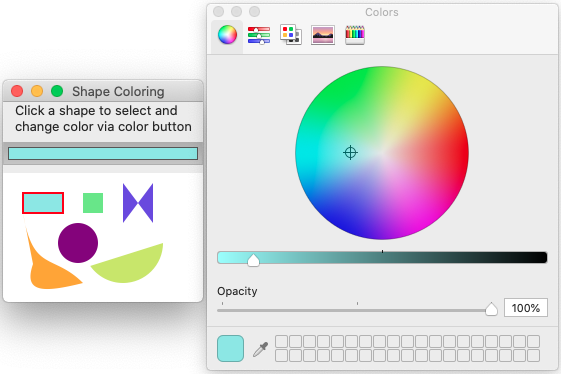
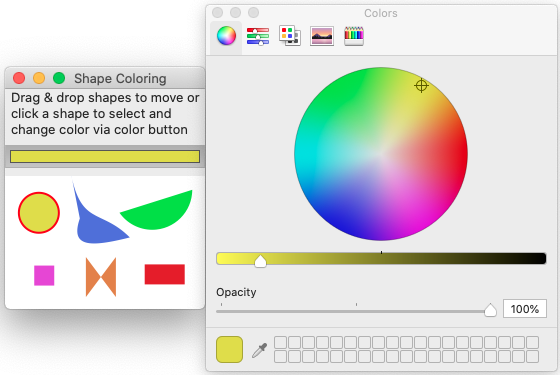
Basic shape drag & drop support with move_by and move (demoed in examples/shape_coloring.rb)

diff --git a/examples/shape_coloring.rb b/examples/shape_coloring.rb
@@ -10,11 +10,11 @@ class ShapeColoring
   }
   
   body {
-    window('Shape Coloring', 200, 200) {
+    window('Shape Coloring', 200, 220) {
       margined false
       
       grid {
-        label("Click a shape to select and\nchange color via color button") {
+        label("Drag & drop shapes to move or\nclick a shape to select and\nchange color via color button") {
           left 0
           top 0
           hexpand true
@@ -68,6 +68,14 @@ class ShapeColoring
                      40, 120, 20, 120, 30, 91) {
             fill :pink
           }
+          
+          on_mouse_dragged do |area_mouse_event|
+            mouse_dragged(area_mouse_event)
+          end
+          
+          on_mouse_dropped do |area_mouse_event|
+            mouse_dropped(area_mouse_event)
+          end
         }
       }
     }
@@ -76,17 +84,53 @@ class ShapeColoring
   def colorable(shape_symbol, *args, &content)
     send(shape_symbol, *args) do |shape|
       on_mouse_up do |area_mouse_event|
-        old_stroke = Glimmer::LibUI.interpret_color(shape.stroke).slice(:r, :g, :b)
-        @shapes.each {|sh| sh.stroke = nil}
-        @selected_shape = nil
-        unless old_stroke == COLOR_SELECTION
-          shape.stroke = COLOR_SELECTION.merge(thickness: 2)
-          @selected_shape = shape
+        unless @dragged_shape
+          old_stroke = Glimmer::LibUI.interpret_color(shape.stroke).slice(:r, :g, :b)
+          @shapes.each {|sh| sh.stroke = nil}
+          @selected_shape = nil
+          unless old_stroke == COLOR_SELECTION
+            shape.stroke = COLOR_SELECTION.merge(thickness: 2)
+            @selected_shape = shape
+          end
         end
+      end
+      
+      on_mouse_drag_started do |area_mouse_event|
+        mouse_drag_started(shape, area_mouse_event)
+      end
+      
+      on_mouse_dragged do |area_mouse_event|
+        mouse_dragged(area_mouse_event)
+      end
+      
+      on_mouse_dropped do |area_mouse_event|
+        mouse_dropped(area_mouse_event)
       end
       
       content.call(shape)
     end
+  end
+  
+  def mouse_drag_started(dragged_shape, area_mouse_event)
+    @dragged_shape = dragged_shape
+    @dragged_shape_x = area_mouse_event[:x]
+    @dragged_shape_y = area_mouse_event[:y]
+  end
+  
+  def mouse_dragged(area_mouse_event)
+    if @dragged_shape && @dragged_shape_x && @dragged_shape_y
+      x_delta = area_mouse_event[:x] - @dragged_shape_x
+      y_delta = area_mouse_event[:y] - @dragged_shape_y
+      @dragged_shape.move_by(x_delta, y_delta)
+      @dragged_shape_x = area_mouse_event[:x]
+      @dragged_shape_y = area_mouse_event[:y]
+    end
+  end
+  
+  def mouse_dropped(area_mouse_event)
+    @dragged_shape = nil
+    @dragged_shape_x = nil
+    @dragged_shape_y = nil
   end
 end
 

diff --git a/lib/glimmer/libui/perfect_shaped.rb b/lib/glimmer/libui/perfect_shaped.rb
@@ -1,7 +1,14 @@
+require 'forwardable'
+  
 module Glimmer
   module LibUI
     # GUI View objects that can be represented by PerfectShape objects
     module PerfectShaped
+      extend Forwardable
+      
+      def_delegators :perfect_shape,
+                     :min_x, :min_y, :max_x, :max_y, :center_point, :center_x, :center_y
+      
       # Returns if shape contains point on the inside when outline is false (default)
       # or if point is on the outline when outline is true
       # distance_tolerance is used when outline is true to enable a fuzz factor in
@@ -32,6 +39,18 @@ module Glimmer
           perfect_shape_bounding_box.width,
           perfect_shape_bounding_box.height,
         ]
+      end
+      
+      # moves by x delta and y delta. Classes must implement
+      def move_by(x_delta, y_delta)
+        # No Op
+      end
+      alias translate move_by
+      
+      def move(x, y)
+        x_delta = x - perfect_shape.min_x
+        y_delta = y - perfect_shape.min_y
+        move_by(x_delta, y_delta)
       end
       
       # Returns PerfectShape object matching this shape to enable

diff --git a/lib/glimmer/libui/shape/bezier.rb b/lib/glimmer/libui/shape/bezier.rb
@@ -50,6 +50,17 @@ module Glimmer
           x && y
         end
         
+        def move_by(x_delta, y_delta)
+          self.x += x_delta
+          self.y += y_delta
+          self.c1_x += x_delta
+          self.c1_y += y_delta
+          self.c2_x += x_delta
+          self.c2_y += y_delta
+          self.end_x += x_delta
+          self.end_y += y_delta
+        end
+        
         def perfect_shape
           perfect_shape_dependencies = [x, y, c1_x, c1_y, c2_x, c2_y, end_x, end_y]
           if perfect_shape_dependencies != @perfect_shape_dependencies

diff --git a/lib/glimmer/libui/shape/figure.rb b/lib/glimmer/libui/shape/figure.rb
@@ -51,6 +51,12 @@ module Glimmer
         alias set_closed closed
         alias closed? closed
         
+        def move_by(x_delta, y_delta)
+          self.x += x_delta
+          self.y += y_delta
+          children.each {|child| child.move_by(x_delta, y_delta)}
+        end
+                
         def perfect_shape
           perfect_shape_dependencies = [x, y, closed, parent.draw_fill_mode, children]
           if perfect_shape_dependencies != @perfect_shape_dependencies

diff --git a/lib/glimmer/libui/shape/polybezier.rb b/lib/glimmer/libui/shape/polybezier.rb
@@ -40,6 +40,10 @@ module Glimmer
           super
         end
         
+        def move_by(x_delta, y_delta)
+          self.point_array = point_array.each_with_index.map {|coordinate, i| i.even? ? coordinate + x_delta : coordinate + y_delta}
+        end
+        
         def perfect_shape
           perfect_shape_dependencies = PerfectShape::MultiPoint.normalize_point_array(point_array)
           if perfect_shape_dependencies != @perfect_shape_dependencies

diff --git a/lib/glimmer/libui/shape/polygon.rb b/lib/glimmer/libui/shape/polygon.rb
@@ -41,6 +41,10 @@ module Glimmer
           super
         end
         
+        def move_by(x_delta, y_delta)
+          self.point_array = point_array.each_with_index.map {|coordinate, i| i.even? ? coordinate + x_delta : coordinate + y_delta}
+        end
+        
         def perfect_shape
           perfect_shape_dependencies = PerfectShape::MultiPoint.normalize_point_array(point_array)
           if perfect_shape_dependencies != @perfect_shape_dependencies

diff --git a/lib/glimmer/libui/shape/polyline.rb b/lib/glimmer/libui/shape/polyline.rb
@@ -40,6 +40,10 @@ module Glimmer
           super
         end
         
+        def move_by(x_delta, y_delta)
+          self.point_array = point_array.each_with_index.map {|coordinate, i| i.even? ? coordinate + x_delta : coordinate + y_delta}
+        end
+        
         def perfect_shape
           perfect_shape_dependencies = PerfectShape::MultiPoint.normalize_point_array(point_array)
           if perfect_shape_dependencies != @perfect_shape_dependencies

diff --git a/lib/glimmer/libui/shape/line.rb b/lib/glimmer/libui/shape/line.rb
@@ -53,6 +53,13 @@ module Glimmer
           !parent.is_a?(Figure) && end_x && end_y
         end
         
+        def move_by(x_delta, y_delta)
+          self.x += x_delta
+          self.y += y_delta
+          self.end_x += x_delta
+          self.end_y += y_delta
+        end
+        
         def perfect_shape
           perfect_shape_dependencies = [x, y, end_x, end_y]
           if perfect_shape_dependencies != @perfect_shape_dependencies

diff --git a/lib/glimmer/libui/shape/arc.rb b/lib/glimmer/libui/shape/arc.rb
@@ -45,6 +45,11 @@ module Glimmer
           super
         end
         
+        def move_by(x_delta, y_delta)
+          self.x_center += x_delta
+          self.y_center += y_delta
+        end
+        
         def perfect_shape
           perfect_shape_dependencies = [x_center, y_center, radius, start_angle, sweep, is_negative]
           if perfect_shape_dependencies != @perfect_shape_dependencies

diff --git a/lib/glimmer/libui/control_proxy/path_proxy.rb b/lib/glimmer/libui/control_proxy/path_proxy.rb
@@ -162,6 +162,10 @@ module Glimmer
           @parent_proxy&.request_auto_redraw
         end
         
+        def move_by(x_delta, y_delta)
+          children.each {|child| child.move_by(x_delta, y_delta)}
+        end
+        
         def perfect_shape
           perfect_shape_dependencies = [draw_fill_mode, children]
           if perfect_shape_dependencies != @perfect_shape_dependencies

diff --git a/lib/glimmer/libui/shape/square.rb b/lib/glimmer/libui/shape/square.rb
@@ -35,6 +35,11 @@ module Glimmer
         
         # TODO look into refactoring/unifying code with Rectangle
         
+        def move_by(x_delta, y_delta)
+          self.x += x_delta
+          self.y += y_delta
+        end
+        
         def perfect_shape
           perfect_shape_dependencies = [x, y, length]
           if perfect_shape_dependencies != @perfect_shape_dependencies

diff --git a/lib/glimmer/libui/shape/circle.rb b/lib/glimmer/libui/shape/circle.rb
@@ -45,6 +45,11 @@ module Glimmer
           super
         end
         
+        def move_by(x_delta, y_delta)
+          self.x_center += x_delta
+          self.y_center += y_delta
+        end
+        
         def perfect_shape
           perfect_shape_dependencies = [x_center, y_center, radius]
           if perfect_shape_dependencies != @perfect_shape_dependencies
